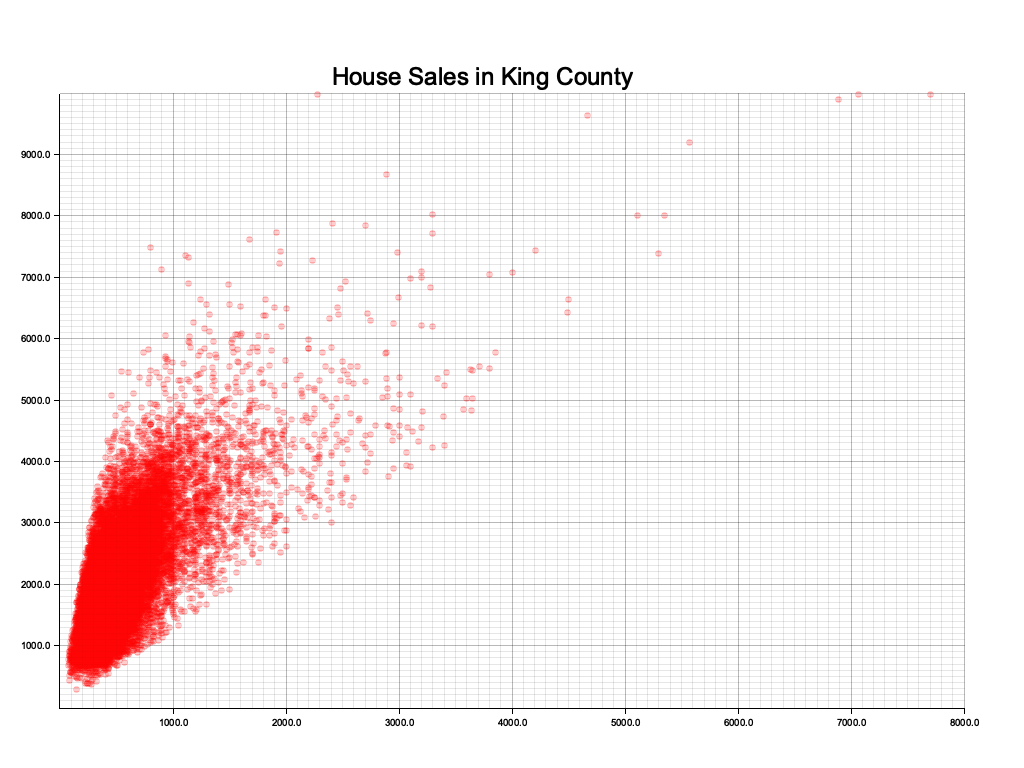
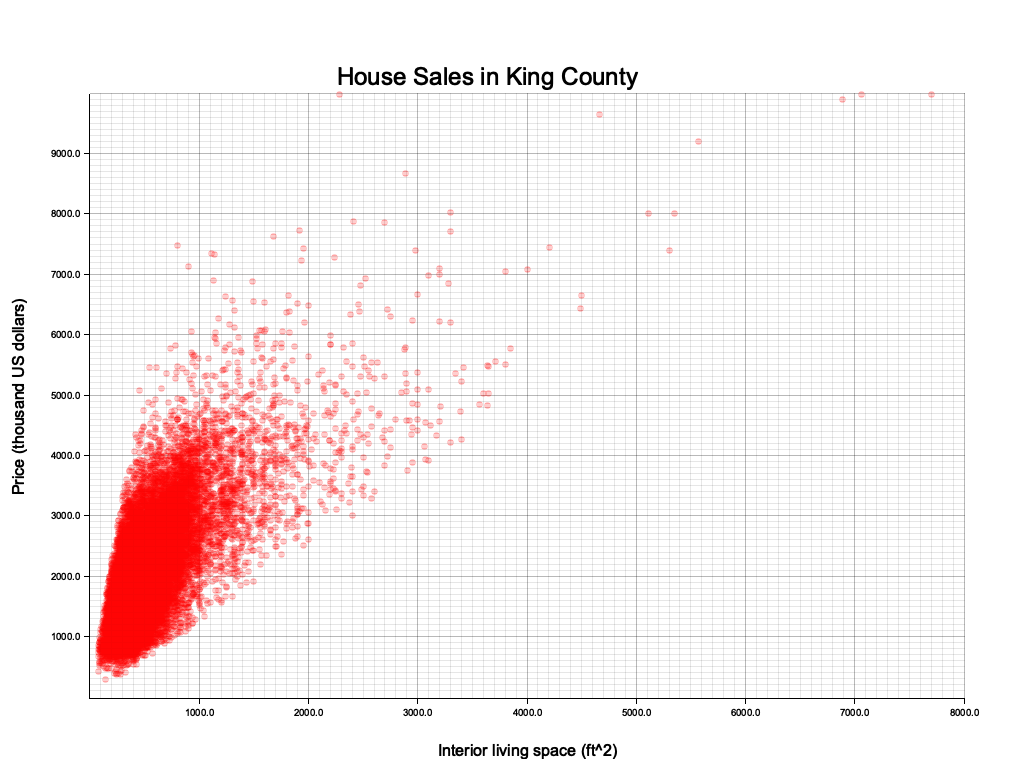
Added axes labels.

Changed region(s): [[0.0, 0.125, 0.9688, 0.9688], [0.3125, 0.0625, 0.625, 0.125], [0.4375, 0.9688, 0.5938, 1.0]]

diff --git a/src/main.rs b/src/main.rs
@@ -25,15 +25,20 @@ fn main() -> Result<(), Box<dyn std::error::Error>> {
     // 2. Setup a drawing area (layout).
     let root = BitMapBackend::new("./plots/scatter.png", (1024, 768)).into_drawing_area();
     root.fill(&WHITE)?;
-    let root = root.margin(60, 0, 0, 60);
+    let root = root.margin(60, 10, 10, 60);
 
     // 3. Create a Chart Context.
     let mut chart = ChartBuilder::on(&root)
-        .set_label_area_size(LabelAreaPosition::Left, 60.0)
+        .set_label_area_size(LabelAreaPosition::Left, 80.0)
         .set_label_area_size(LabelAreaPosition::Bottom, 60.0)
-        .caption("House Sales in King County", ("sans-serif", 30.0).into_font())
+        .caption("House Sales in King County", ("sans-serif", 30.0))
         .build_cartesian_2d(0.0..8_000.0, 0.0..10_000.0)?;
-    chart.configure_mesh().draw()?;
+    chart
+        .configure_mesh()
+        .y_desc("Price (thousand US dollars)")
+        .x_desc("Interior living space (ft^2)")
+        .axis_desc_style(("sans-serif", 20))
+        .draw()?;
     
     // 4. Draw a data series
     chart.draw_series(price_sqft_living.iter().map(|(price, sqft_living)| Circle::new((*price, *sqft_living), 3.0_f64, RED.mix(0.2).filled())))?;
